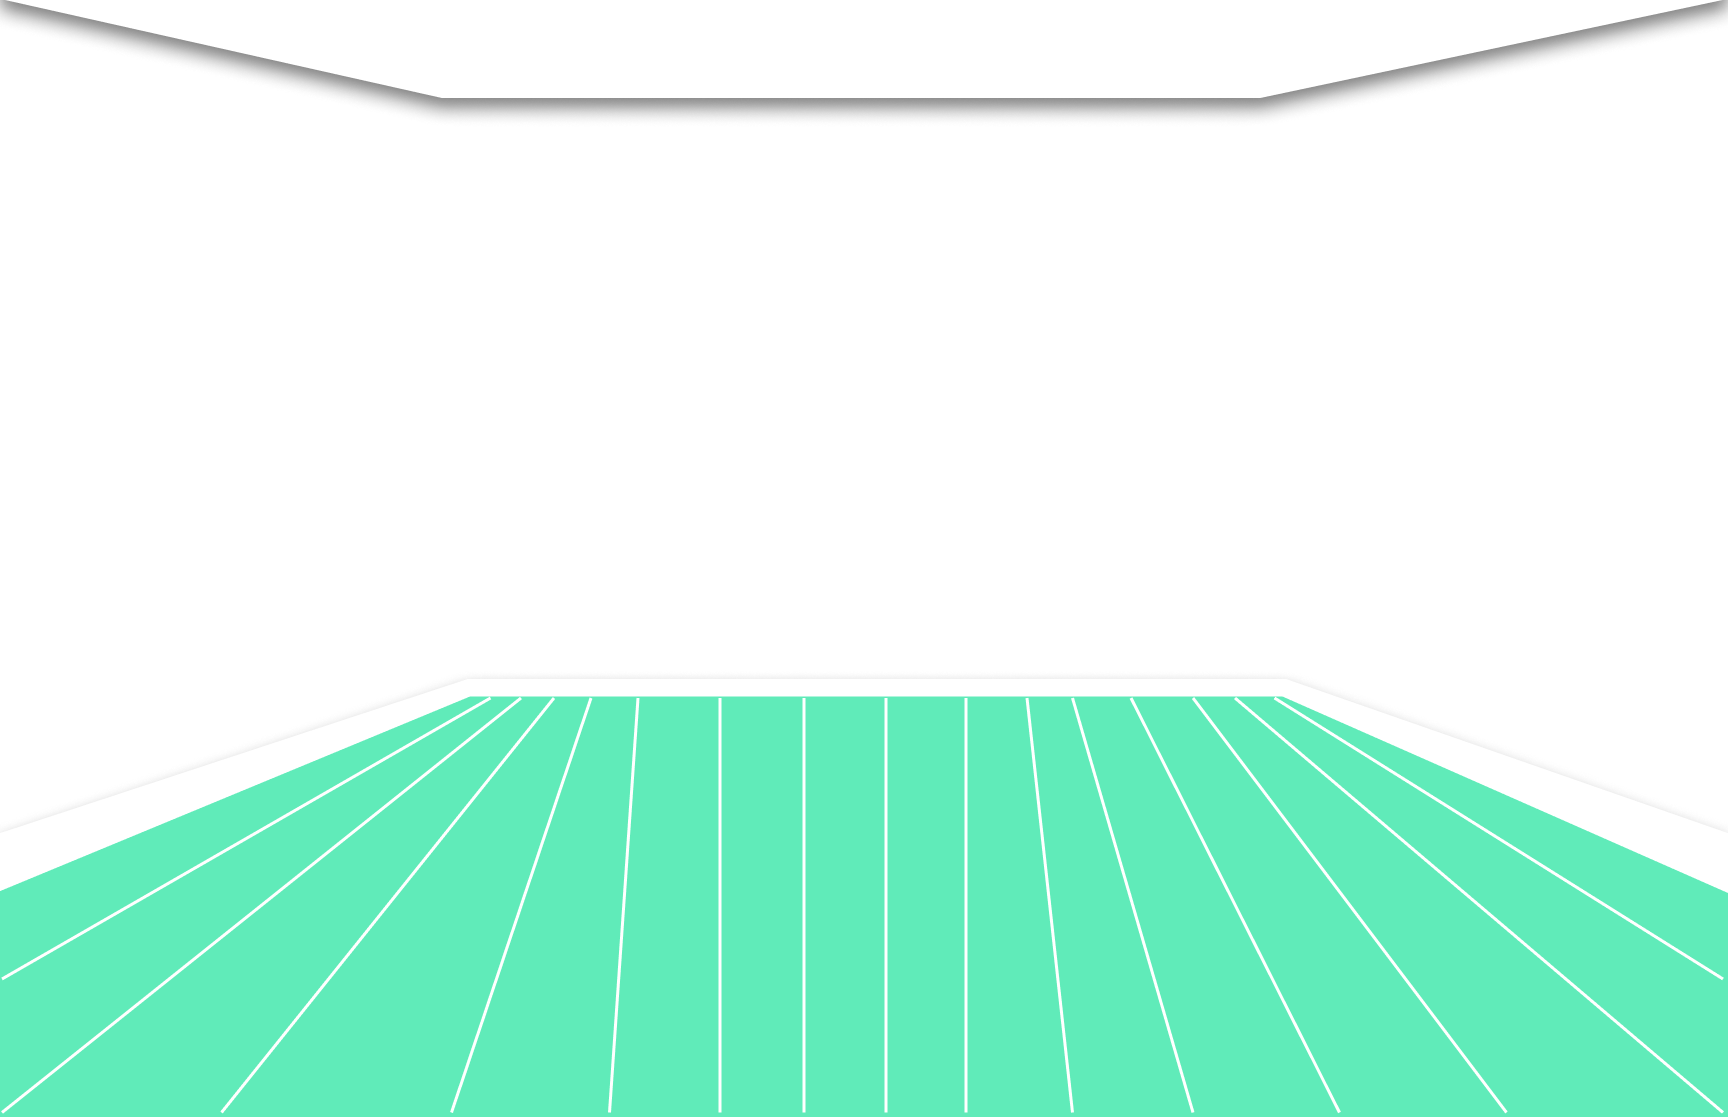
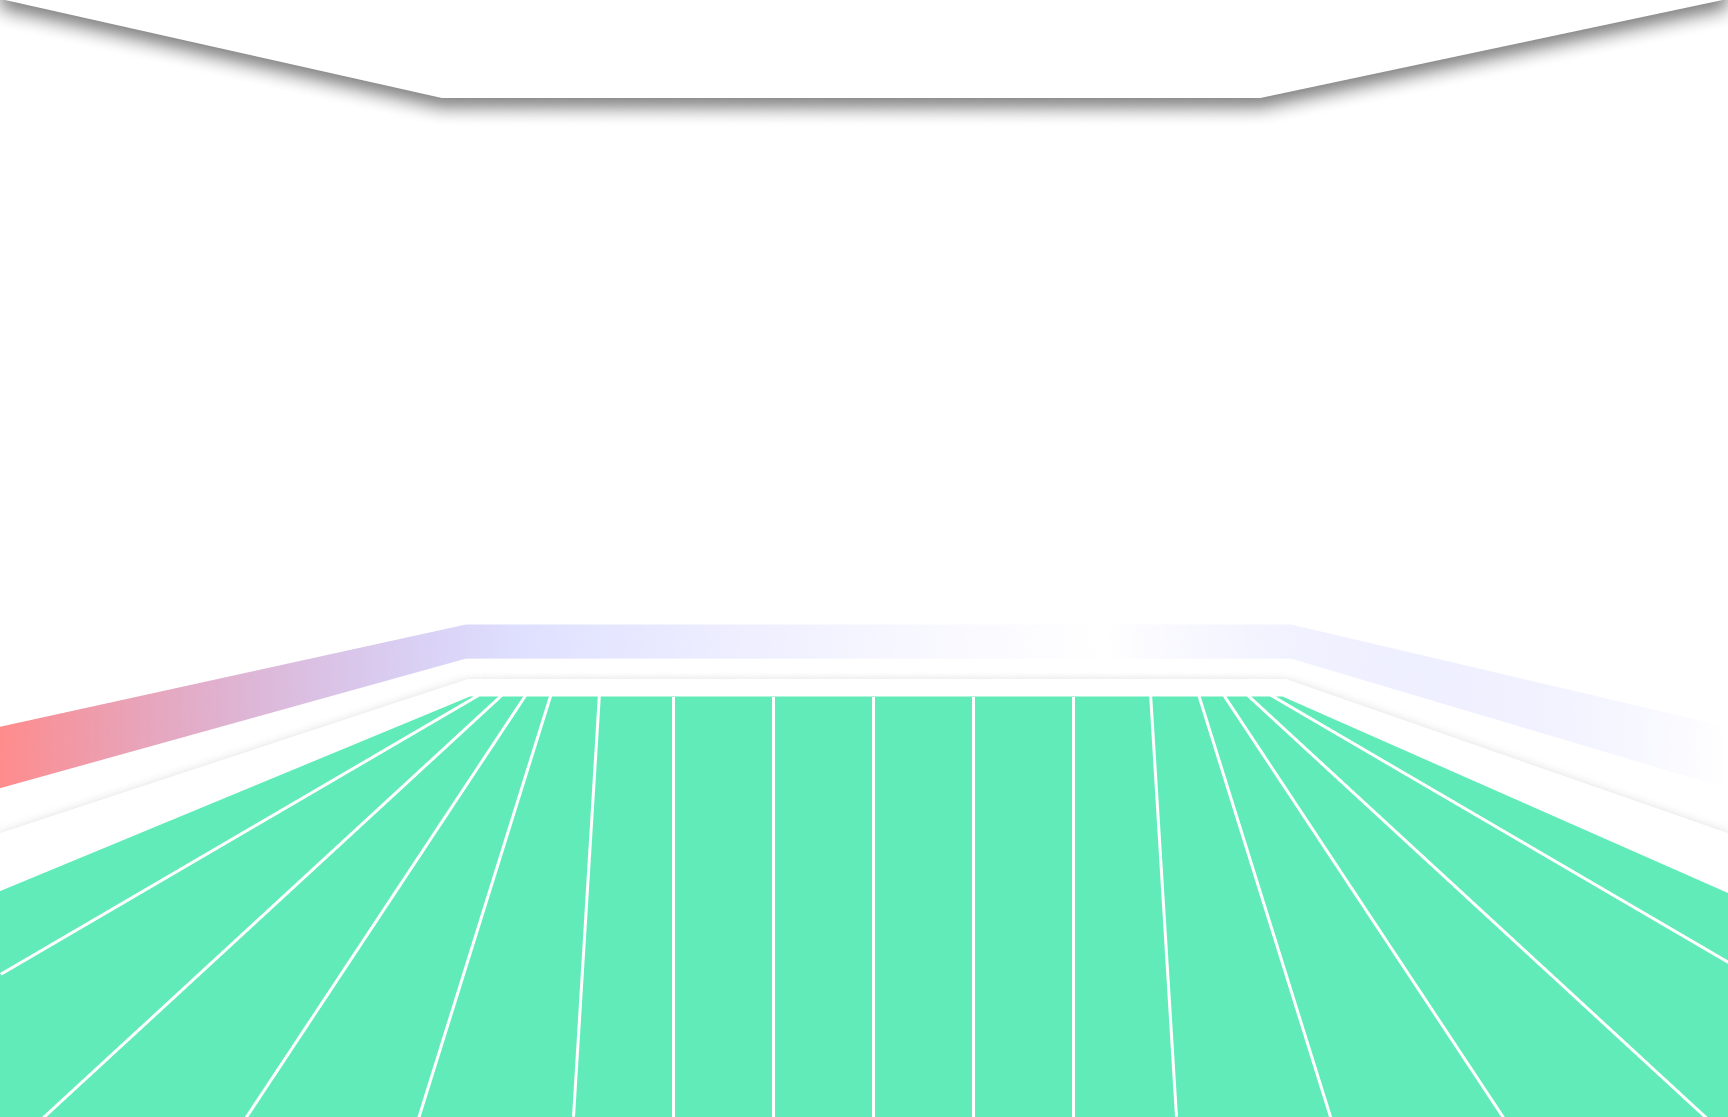
feat : add main page
메인페이지 관련 컴포넌트 제작 및 메인페이지 구성 진행중입니다.

diff --git a/front-end/koplaydev/app/test/page.js b/front-end/koplaydev/app/test/page.js
@@ -1,38 +1,13 @@
 import MainBg from "../component/background/MainBg";
-import styles from './page.module.scss';
+import MainIcons from "./MainIcons";
+import Profile from "./Profile";
 
 export default function Test() {
   return (
     <>
       <MainBg />
-      <svg
-      className={styles.expBar}
-        xmlns="http://www.w3.org/2000/svg"
-        width="1728"
-        height="167"
-        viewBox="0 0 1728 167"
-        fill="none"
-      >
-        <path
-          d="M465.85 1L-1 90.474V140L465.85 36.1711H1291.24L1728 166V103.474L1291.24 1H465.85Z"
-          fill="url(#paint0_linear_573_373)"
-          stroke="white"
-        />
-        <defs>
-          <linearGradient
-            id="paint0_linear_573_373"
-            x1="-1"
-            y1="83.5"
-            x2="1728"
-            y2="83.5"
-            gradientUnits="userSpaceOnUse"
-          >
-            <stop stopColor="#FF8B8B" />
-            <stop offset="0.306" stopColor="#969AFF" stopOpacity="0.5" />
-            <stop offset="1" stopColor="white" />
-          </linearGradient>
-        </defs>
-      </svg>
+      <MainIcons/>
+      <Profile/>
     </>
   );
 }

diff --git a/front-end/koplaydev/app/test/Profile.module.scss b/front-end/koplaydev/app/test/Profile.module.scss
@@ -1,0 +1,47 @@
+.profile{
+    width: 40vw;
+    height: 32vh;
+    opacity: 0.8;
+    background : white;
+    border-radius: 29px;
+    position : absolute;
+    bottom : 3vh;
+    left : 30vw;
+    display : flex;
+
+
+    .pictureBox{
+        width : 45%;
+        height : 100%;
+        padding : 5%;
+        padding-left : 10%;
+        box-sizing: border-box;
+    
+        img{
+            width : 90%;
+            height : 90%;
+            border-radius: 50px;
+            border : 6px solid #15EA9D;
+        }
+    }
+
+    .profileInfo{
+        width : 55%;
+        height : 100%;
+        box-sizing: border-box;
+        display : flex;
+        flex-direction: column;
+        justify-content: center;
+        align-items: center;
+        padding-right : 10%;
+
+        :nth-child(2){
+            font-size: 5vh;
+        }
+
+        img{
+            width : 100%;
+            height: 40%;
+        }
+    }
+}

diff --git a/front-end/koplaydev/app/test/MainIcons.module.scss b/front-end/koplaydev/app/test/MainIcons.module.scss
@@ -1,0 +1,35 @@
+.hehe{
+    position : absolute;
+    top : 25vh;
+    left : 40vw;
+    width : 20vw;
+    height : 30vh;
+    z-index : 10;
+}
+
+.normalGame{
+    position : absolute;
+    top : 0vh;
+    left : 1vw;
+    width : 35vw;
+    height : 65vh;
+    z-index : 10;
+}
+
+.rankGame{
+    position : absolute;
+    top : 0vh;
+    right : 1vw;
+    width : 35vw;
+    height : 65vh;
+    z-index : 10;
+}
+
+.speechBubble{
+    position : absolute;
+    top : 9vh;
+    left : 38vw;
+    width : 24vw;
+    height : 15vh;
+    z-index : 10;
+}

diff --git a/front-end/koplaydev/app/test/Profile.js b/front-end/koplaydev/app/test/Profile.js
@@ -1,0 +1,20 @@
+import styles from "./Profile.module.scss";
+
+export default function Profile() {
+  return (
+    <div className={styles.profile}>
+      <div className={styles.pictureBox}>
+        <img src="hehe.png" />
+      </div>
+      <div className={styles.profileInfo}>
+        <img src="/korea-3.png" alt="" />
+        <div>
+          <span>123123</span>
+          <span>456</span>
+        </div>
+        <span>123123</span>
+        <span>123123</span>
+      </div>
+    </div>
+  );
+}

diff --git a/front-end/koplaydev/app/test/MainIcons.js b/front-end/koplaydev/app/test/MainIcons.js
@@ -1,0 +1,12 @@
+import styles from './MainIcons.module.scss';
+
+export default function MainIcons() {
+  return (
+    <>
+      <img className={styles.hehe} src="/hehe.png" alt="" />
+      <img className={styles.normalGame} src="/normal-game2.png" alt="" />
+      <img className={styles.rankGame} src="rank-game.png" alt="" />
+      <img className={styles.speechBubble} src="speechBubble.png" alt="" />
+    </>
+  );
+}
